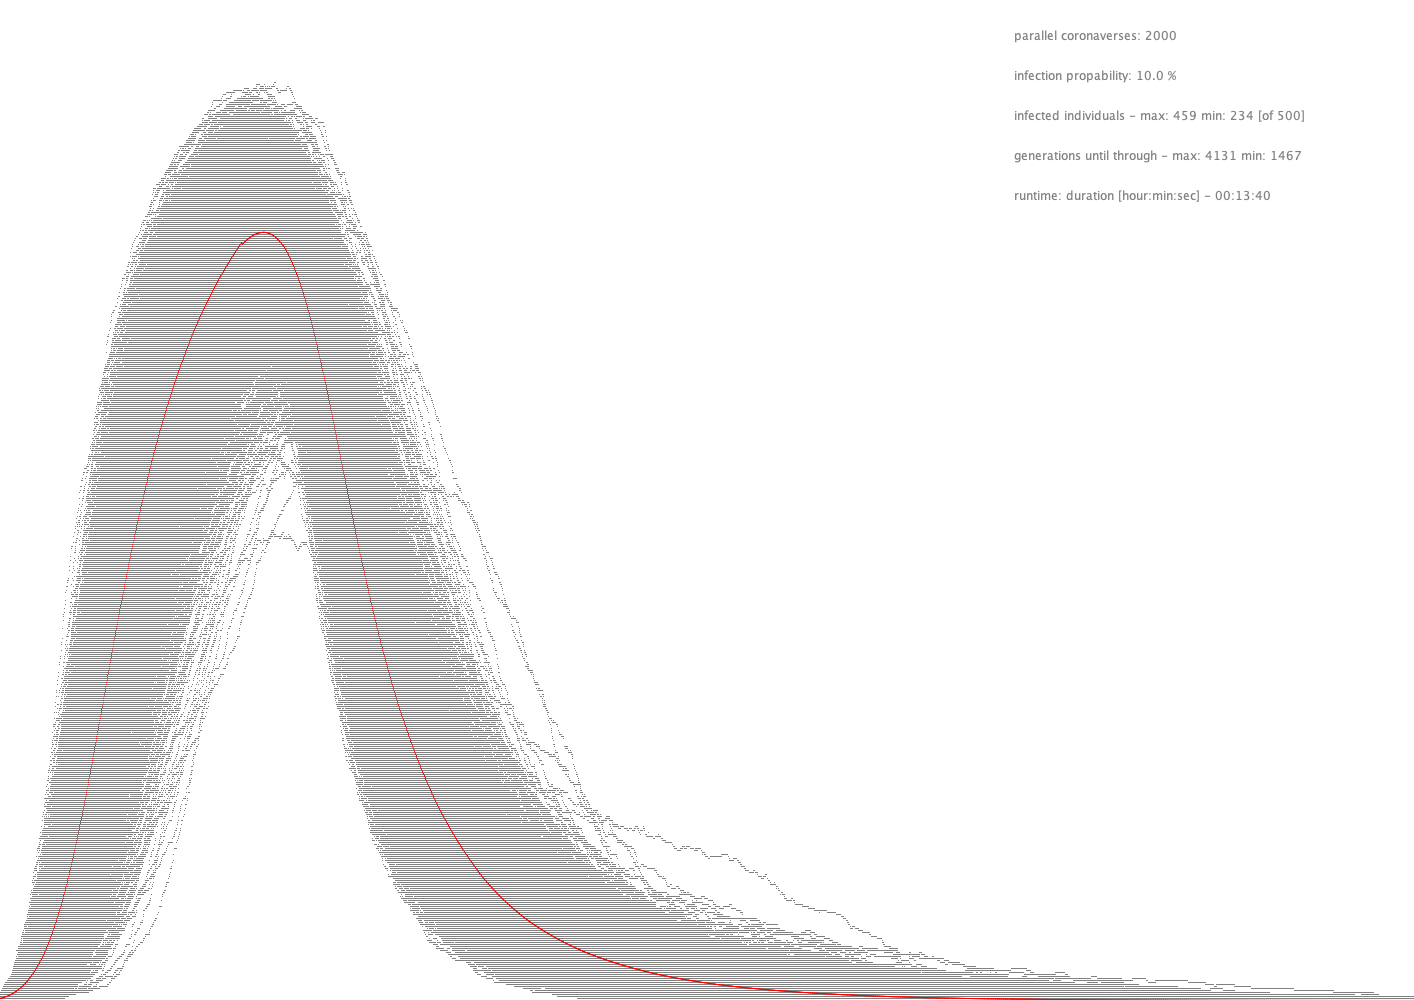
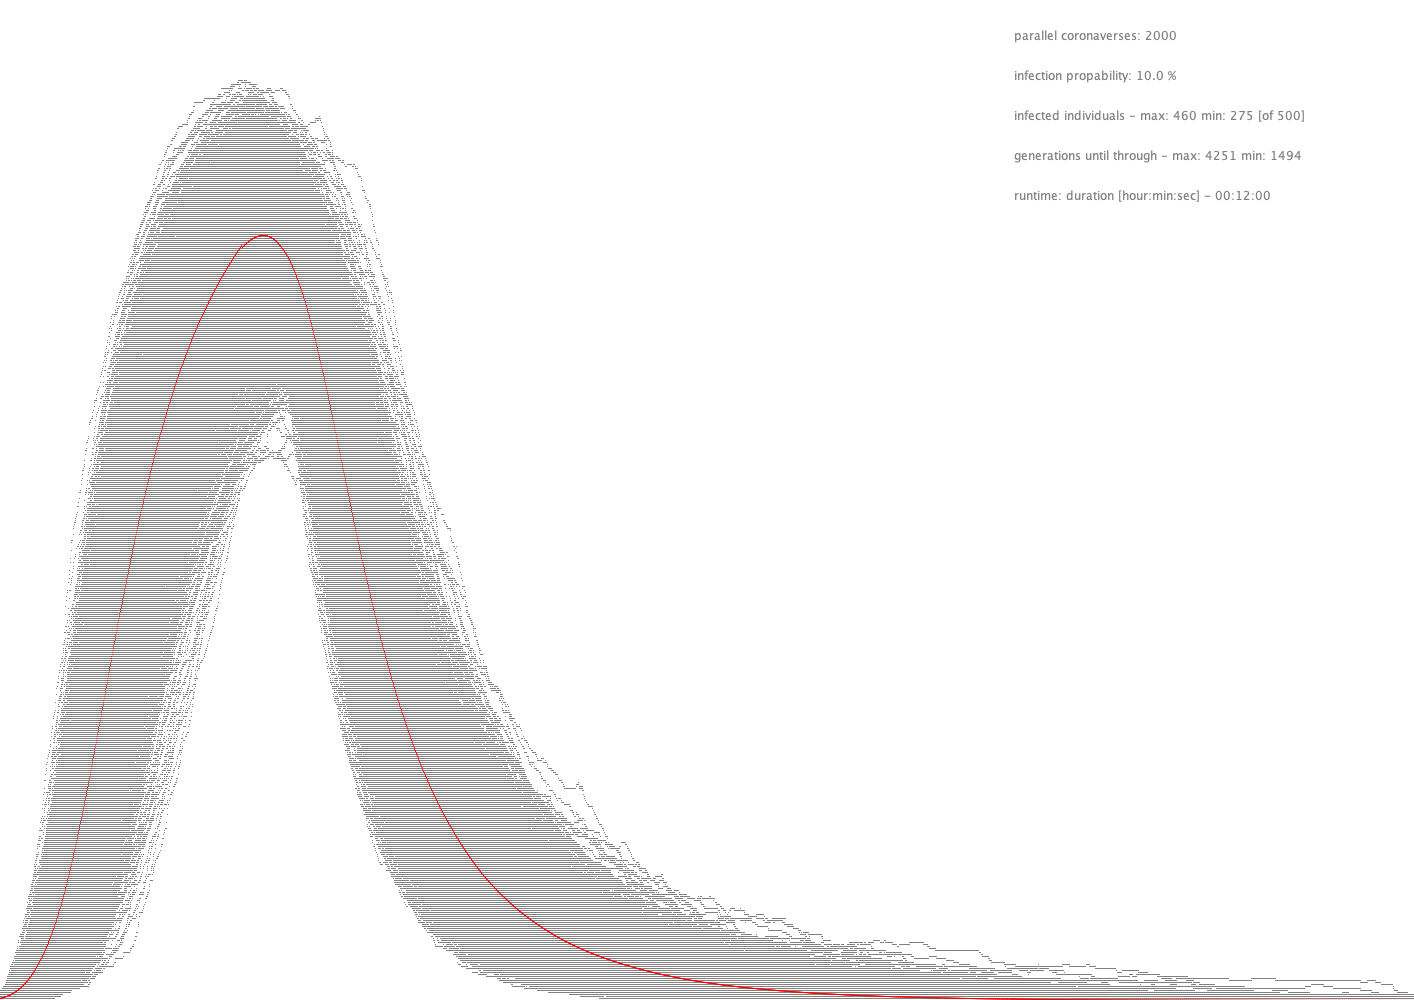
bug fixing

diff --git a/src/CoronaPlayGround.java b/src/CoronaPlayGround.java
@@ -4,8 +4,6 @@ import mratools.MUtilityTools;
 
 import javax.swing.*;
 import java.awt.*;
-import java.awt.event.ComponentAdapter;
-import java.awt.event.ComponentEvent;
 import java.util.ArrayList;
 import java.util.Calendar;
 
@@ -18,7 +16,30 @@ public class CoronaPlayGround extends JPanel {
     private int doneCounter = 0;
     private long startTime;
 
+    private final static int randomLimit = 100000;
+    private final static double[] randomList = new double[randomLimit];
+    private static int randomCounter = 0;
+
+    private void initRandom() {
+        for (int i = 0; i < randomList.length; i++) {
+            randomList[i] = Math.random();
+        }
+    }
+
+    static double getNextRandom() {
+        randomCounter++;
+        if (randomCounter >= randomLimit) {
+            randomCounter = 0;
+        }
+        if (randomCounter >= randomLimit) {
+            MTools.println("randomCounter: " + randomCounter + " rl: " + randomLimit);
+        }
+        return randomList[randomCounter];
+    }
+
     public CoronaPlayGround() {
+
+        initRandom();
 
         MTools.println("[" + getClass() + "]->ip: " + infectionProbability);
 //        addComponentListener(new ComponentAdapter() {
@@ -99,11 +120,17 @@ public class CoronaPlayGround extends JPanel {
         int mSec = calendar.get(Calendar.SECOND);
 
         String sh = "" + mHour;
-        if( mHour < 10 ) sh = "0" + sh;
-        String sm= "" + mMin;
-        if( mMin < 10 ) sm = "0" + sm;
+        if (mHour < 10) {
+            sh = "0" + sh;
+        }
+        String sm = "" + mMin;
+        if (mMin < 10) {
+            sm = "0" + sm;
+        }
         String ss = "" + mSec;
-        if( mSec < 10 ) ss = "0" + ss;
+        if (mSec < 10) {
+            ss = "0" + ss;
+        }
 
         return "duration [hour:min:sec] - " + sh + ":" + sm + ":" + ss;
     }
@@ -155,7 +182,7 @@ public class CoronaPlayGround extends JPanel {
     public static void main(String[] args) {
 
         numberCoronaWorlds = 4000;
-        infectionProbability = 0.5;
+        infectionProbability = 0.06;
         CoronaPlayGround cpg = new CoronaPlayGround();
 
         MFrame f = new MFrame();

diff --git a/src/CoronaWorld.java b/src/CoronaWorld.java
@@ -337,8 +337,11 @@ public class CoronaWorld extends JPanel implements IRunner {
         generation++;
         for (Individual ind : individuals) {
 
-            double dx = Math.random() * delta - delta_2;
-            double dy = Math.random() * delta - delta_2;
+//            double dx = Math.random() * delta - delta_2;
+//            double dy = Math.random() * delta - delta_2;
+
+            double dx = CoronaPlayGround.getNextRandom() * delta - delta_2;
+            double dy = CoronaPlayGround.getNextRandom() * delta - delta_2;
 
             ind.box.x += dx;
             ind.box.y += dy;
